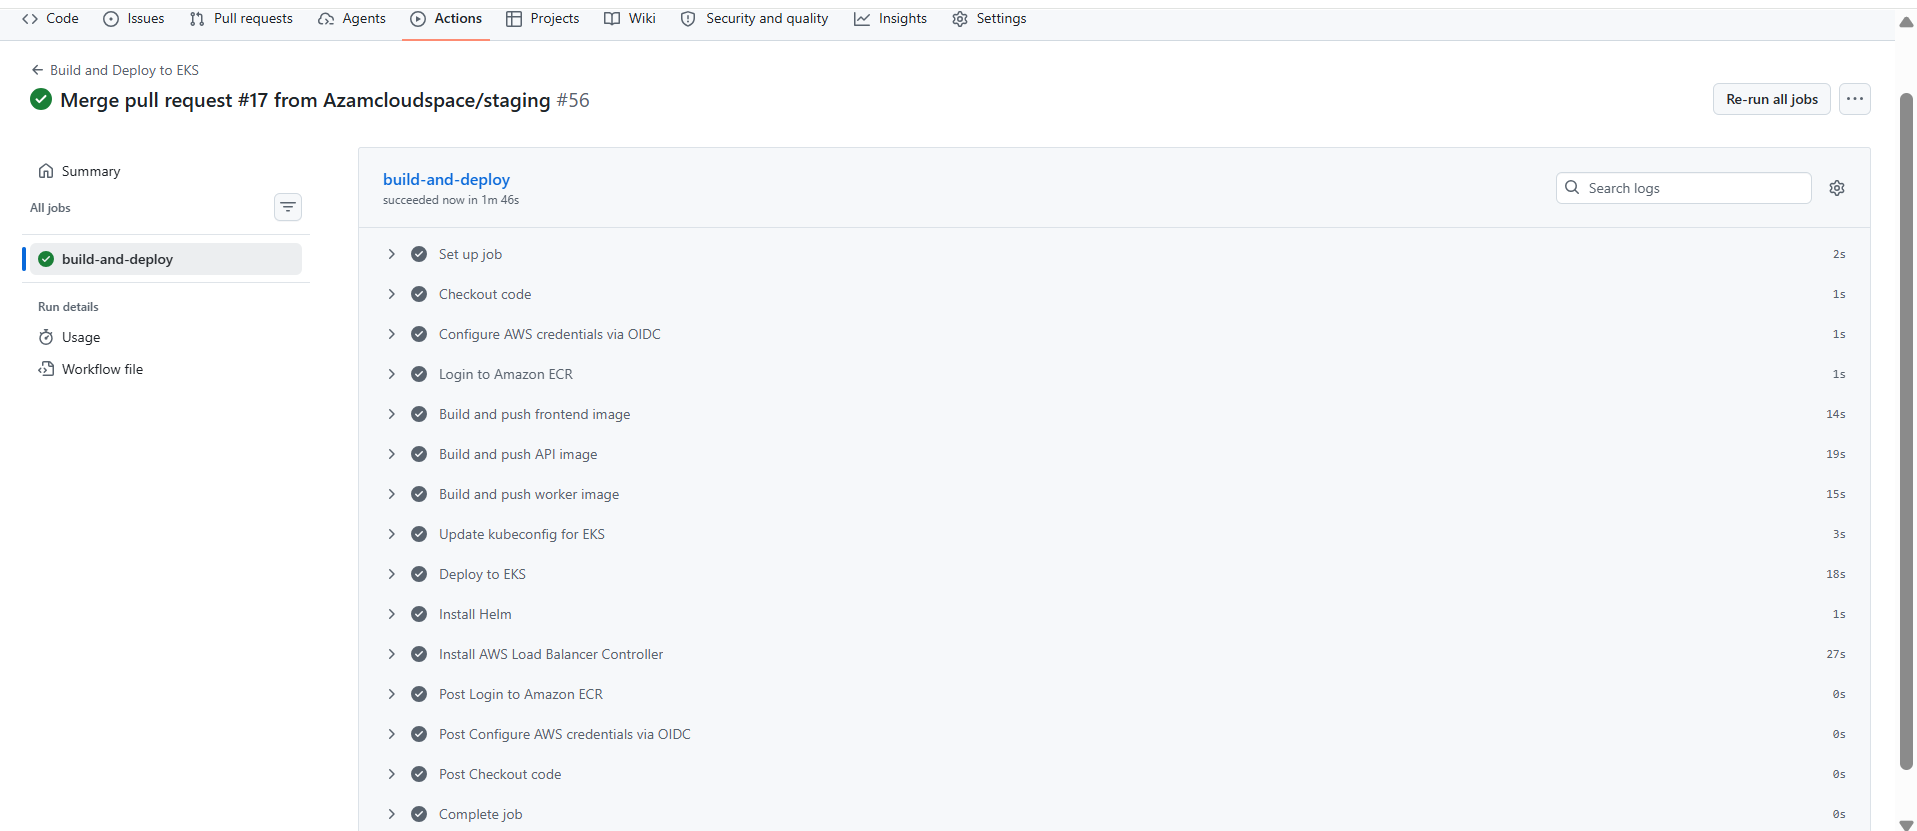
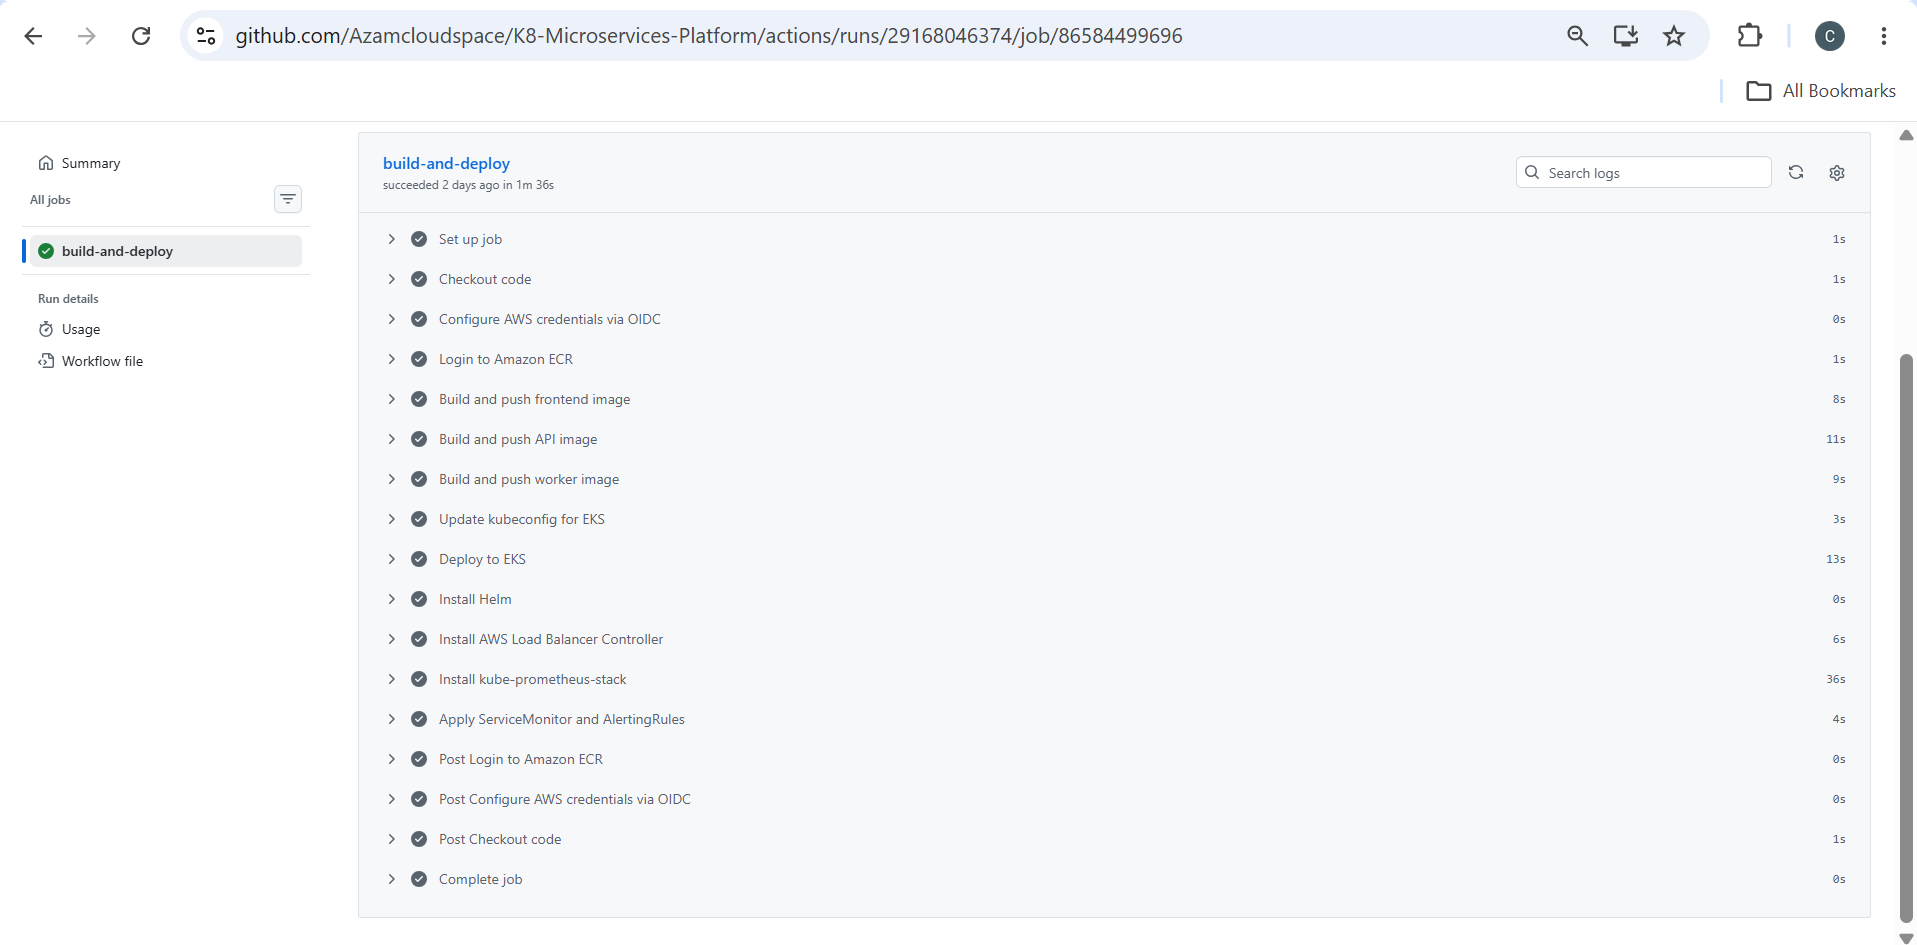
add observability section to README

diff --git a/README.md b/README.md
@@ -15,6 +15,7 @@ Migrated a production microservices workload from AWS ECS Fargate to Amazon EKS,
 - Replaced CodePipeline/CodeBuild with GitHub Actions
 - Implemented IRSA for keyless AWS authentication from pods
 - Deployed AWS Load Balancer Controller to manage ALB provisioning from Kubernetes
+- Deployed Prometheus, Grafana, and Alertmanager for Observability
 - Multi-environment promotion strategy (dev → staging → prod) with manual approval gates
 ---
  
@@ -71,7 +72,9 @@ k8/
 ├── frontend-deployment.yaml          # Deployment + ClusterIP Service
 ├── api-deployment.yaml               # Deployment + ClusterIP Service
 ├── worker-deployment.yaml            # Deployment only
-└── ingress.yaml                      # ALB routing rules
+├── ingress.yaml                      # ALB routing rules
+├── sevicemonitor.yaml                # Prometheus scraping for app
+└── alertingrules.yaml                # Prometheus alert rules
 ```
  
 ### ECS → Kubernetes Mapping
@@ -130,7 +133,7 @@ Commit and Push your Git repo on your local computer to GitHub
 
 ### Step 6 - Workflow Trigger
 
-Push triggers the deploy workflow to build the images, push images to ECR, Deploy Kubernetes Manifests to EKS , Installs Helm and Load Balancer Controller to route traffic to pods
+Push triggers the deploy workflow to build the images, push images to ECR, Apply Kubernetes Manifests to EKS , Installs Helm, Installs Load Balancer Controller to route traffic to pods, Installs kube-prometheus-stack for observability(Prometheus,Grafana,AlertManager), Apply Manifests for the prometheus stack
 
 ```
 Code pushed
@@ -138,9 +141,11 @@ Code pushed
         → Docker build → tag with git commit SHA
             → Push to ECR
                 → kubectl apply manifests
-                  → kubectl rollout status
                     → Install Helm
                       → Install AWS LoadBalancer Controller
+                        → Install kube-prometheus-stack
+                            → kubectl apply manifests(kube-prometheus-stack)
+
                       
         
 ```
@@ -149,10 +154,7 @@ Code pushed
 Workflow Completed
 
 ![Workflow](screenshots/Screenshot9.png)
-EKS Pods
-
-![Workflow](screenshots/Screenshot10.png)
-K8 LoadBalancer showing DNS Name
+EKS Pods and K8 LoadBalancer showing DNS Name
 
 ![Workflow](screenshots/Screenshot11.png)
 Working Web Application
@@ -183,7 +185,57 @@ Check for previous `app/frontend/index.html` version in the commit history
 - Environment-scoped GitHub Secrets per environment
 
 ---
- 
+
+## Observability
+
+Deployed via `kube-prometheus-stack` Helm chart into a dedicated `monitoring` namespace. Observability runs alongside the application workloads on the same EKS cluster.
+
+### Stack
+
+- **Prometheus** — scrapes metrics from the cluster and application every 15 seconds
+- **Grafana** — dashboards for visualizing cluster and application metrics
+- **Alertmanager** — routes alerts based on defined rules
+- **Node Exporter** — exposes EC2 node-level metrics (CPU, memory, disk)
+- **kube-state-metrics** — exposes Kubernetes object metrics (pod status, replica counts)
+
+### Application Metrics
+
+The Flask API is instrumented with `prometheus-client`. A `/metrics` endpoint exposes:
+
+- `api_requests_total` — total requests by method, endpoint, and status code
+- `api_request_duration_seconds` — request latency histogram
+- `api_jobs_sent_total` — successful SQS job sends
+- `api_job_errors_total` — failed SQS job sends
+
+A `ServiceMonitor` resource tells Prometheus to scrape the API Service every 15 seconds automatically.
+
+### Grafana Dashboards
+
+Four custom panels built on application metrics:
+
+- **API Request Rate** — `rate(api_requests_total[5m])`
+- **API Error Rate** — `rate(api_requests_total{status=~"5.."}[5m])`
+- **API P95 Latency** — `histogram_quantile(0.95, rate(api_request_duration_seconds_bucket[5m]))`
+- **Jobs Sent to SQS** — `rate(api_jobs_sent_total[5m])`
+
+![Grafana Dashboard](screenshots/Screenshot13.png)
+
+### Alerting Rules
+
+Five PrometheusRule alerts defined in `k8/alertingrules.yaml`:
+
+| Alert | Condition |
+|---|---|
+| APIPodCrashing | Pod restart rate > 0 for 1 min |
+| APIHighErrorRate | 5xx rate > 0.1 req/s for 2 min |
+| APIJobFailures | SQS error rate > 0 for 1 min |
+| APIPodNotRunning | Available replicas < 1 for 1 min |
+| APIHighLatency | P95 latency > 1s for 2 min |
+
+![Alertmanager Rules](screenshots/Screenshot15.png)
+
+---
+
 ## Evolution from ECS Project
  
 Direct migration of [ECS-Microservices-CICD-Platform](https://github.com/Azamcloudspace/ECS-Microservices-CICD-Platform).
